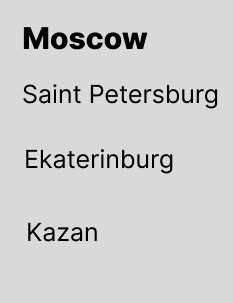
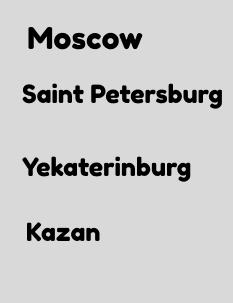
final

diff --git a/style.css b/style.css
@@ -1,16 +1,15 @@
 
 @import url('https://fonts.googleapis.com/css2?family=Mulish:wght@500&display=swap');
 @import url('https://fonts.googleapis.com/css2?family=Dancing+Script&display=swap');
+@import url('https://fonts.googleapis.com/css2?family=Fredoka+One&display=swap');
 
 * {
   margin: 0;
   padding: 0;
   box-sizing: border-box;
+  font-family: 'Fredoka One', cursive;
 }
 
-body {
-font-family: 'Dancing Script', sans-serif;
-}
 
 .header {
     display: flex;
@@ -23,7 +22,7 @@ font-family: 'Dancing Script', sans-serif;
   main {
    height: calc(100vh - 70px);
    display: flex;
-   background-color: #f9f9f9;
+   background-color: white;
  }
  
 .side-bar {
@@ -58,93 +57,16 @@ display: flex;
 width: 100%;
 margin-left: 60px;
 color: #3569A5;
-<<<<<<< HEAD
-
- }
-
-  .flags {
-display: flex;
-flex-direction: row;
-justify-content: space-around;
-
-
-  }
-
-  .bg  {
-
-display: flex;
-flex-direction: row;
-justify-content: center;
-position: relative;
-
-  }
-
-.btn {
-  border-radius: 80px;
-  top: 150px;
-  left: 25%;
-border: none;
-
-}
-
-
-.btn2 {
-  border-radius: 80px;
-  top: 150px;
-  right: 25%;
-  border: none;
-
-}
-
- .bg .btn  {
-  position: absolute;
-
- }
-
-.bg .btn2 {
-   position: absolute;
-}
-
-
-.bg p {
- position: absolute;
-
-}
-
-p {
-  top: 70px;
-  text-align: center;
-  color: white;
-  font-size: 25pt;
-}
-
- .nav-link {
-   display: flex;
-  text-decoration: none;
-
-
- }
-.nav-link:hover {
-   background: #F5F5F5;
-   cursor: pointer;
- }
-
- .nav-link img {
-height: 66px;
-width: 243px;
-margin: 3px;
-=======
->>>>>>> origin/main
  }
 
 
  .content {
-  background-color: #f9f9f9;
-  font-family: 'Dancing Script', sans-serif;
+  background-color: white;
+
   width: 100%;
   height: 100%;
   padding: 15px 15px;
-  border-top: 1px solid #ddd;
+  border-top: 1px solid white;
   overflow-y: scroll;
   
 }
@@ -201,10 +123,10 @@ p {
  }
 
  .nav-link img {
-height: 55px;
-width: 150px;
-margin: 5px;
- }
+  height: 66px;
+  width: 243px;
+  margin: 3px;
+   }
 
 .content {
 line-height: 1.5;

diff --git a/style2.css b/style2.css
@@ -1,16 +1,17 @@
 
 @import url('https://fonts.googleapis.com/css2?family=Mulish:wght@500&display=swap');
-@import url('https://fonts.googleapis.com/css2?family=Dancing+Script&display=swap');
+@import url('https://fonts.googleapis.com/css2?family=Fredoka+One&display=swap');
 
 * {
   margin: 0;
   padding: 0;
   box-sizing: border-box;
+  font-family: 'Fredoka One';
 }
 
 
 body {
-font-family: 'Dancing Script', sans-serif;
+
 }
 
 .header {
@@ -51,6 +52,9 @@ display: flex;
     flex-direction: column;
     text-align: center;
   }
+  .header h1 {
+    margin-left: 145px;
+  }
 
  h1 {
   text-align: center;
@@ -74,18 +78,17 @@ p {
  }
 
  .nav-link img {
-height: 55px;
-width: 150px;
-margin: 5px;
- }
-
+  height: 66px;
+  width: 243px;
+  margin: 3px;
+   }
  .content {
     
-  background-color: #f9f9f9;
+  background-color: white;
   width: 100%;
   height: 100%;
   padding: 15px 15px;
-  border-top: 1px solid #ddd;
+  border-top: 1px solid white;
   overflow-y: scroll;
   line-height: 1.5;
     display: flex;

diff --git a/style_area.css b/style_area.css
@@ -1,16 +1,16 @@
 
 @import url('https://fonts.googleapis.com/css2?family=Mulish:wght@500&display=swap');
+@import url('https://fonts.googleapis.com/css2?family=Fredoka+One&display=swap');
 
 * {
   margin: 0;
   padding: 0;
   box-sizing: border-box;
+  font-family: 'Fredoka One';
 }
 
 
-body {
-font-family: 'Mulish', sans-serif;
-}
+
 
 .header {
     display: flex;
@@ -21,6 +21,11 @@ font-family: 'Mulish', sans-serif;
     padding: 25px;
     text-align: center;
 
+    
+}
+
+.header h1 {
+  margin-left: 145px;
 }
  h1 {
   text-align: center;
@@ -119,12 +124,17 @@ h3 {
   flex-direction: row;
   justify-content: space-around;
   margin-top: 20px;
-  transform: scale(1.1);
+
+
 }
 
-.countries:hover img {
+.countries img:hover {
   transform: scale(1.1);
 
+}
+
+.countries img {
+  transition: all 1s;
 }
 
 

diff --git a/style-FAQ.css b/style-FAQ.css
@@ -1,11 +1,11 @@
 
 @import url('https://fonts.googleapis.com/css2?family=Mulish:wght@500&display=swap');
-@import url('https://fonts.googleapis.com/css2?family=Dancing+Script&display=swap');
-
+@import url('https://fonts.googleapis.com/css2?family=Fredoka+One&display=swap');
 * {
   margin: 0;
   padding: 0;
   box-sizing: border-box;
+  font-family: 'Fredoka One';
 }
 
 
@@ -20,7 +20,11 @@ font-family: 'Mulish', sans-serif;
     align-items: center;
     height: 100px;
     padding: 25px;
-    font-family: 'Dancing Script', sans-serif;
+    font-family: Larsseit-Bold,sans-serif;
+  }
+
+  .header h1 {
+    margin-left: 145px;
   }
   main {
    height: calc(100vh - 70px);
@@ -114,7 +118,7 @@ p {
   line-height: 1.5;
     display: flex;
     flex-direction: column;
-     align-items: center;
+ 
 }
 
 

diff --git a/style-courier.css b/style-courier.css
@@ -2,16 +2,15 @@
 @import url('https://fonts.googleapis.com/css2?family=Mulish:wght@500&display=swap');
 @import url('https://fonts.googleapis.com/css2?family=Dancing+Script&display=swap');
 
+@import url('https://fonts.googleapis.com/css2?family=Fredoka+One&display=swap');
+
 * {
   margin: 0;
   padding: 0;
   box-sizing: border-box;
+  font-family: 'Fredoka One', cursive;
 }
 
-
-body {
-    font-family: 'Dancing Script', sans-serif;
-}
 
 
 
@@ -23,6 +22,9 @@ body {
     height: 100px;
     padding: 25px;
     width: 100%;
+  }
+  .header h1 {
+    margin-left: 145px;
   }
 
   h1 {
@@ -81,10 +83,10 @@ p {
  }
 
  .nav-link img {
-height: 55px;
-width: 150px;
-margin: 5px;
- }
+  height: 66px;
+  width: 243px;
+  margin: 3px;
+   }
 
  .content {
   background-color: #f9f9f9;

diff --git a/style_login.css b/style_login.css
@@ -1,10 +1,12 @@
 
 @import url('https://fonts.googleapis.com/css2?family=Mulish:wght@500&display=swap');
+@import url('https://fonts.googleapis.com/css2?family=Fredoka+One&display=swap');
 
 * {
   margin: 0;
   padding: 0;
   box-sizing: border-box;
+  font-family: 'Fredoka One', cursive;
 }
 
 
@@ -20,6 +22,10 @@ font-family: 'Mulish', sans-serif;
     height: 100px;
     padding: 25px;
     text-align: center;
+  }
+
+  .header h1 {
+    margin-left: 145px;
   }
 
 
